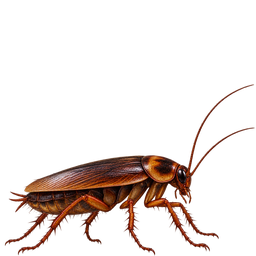
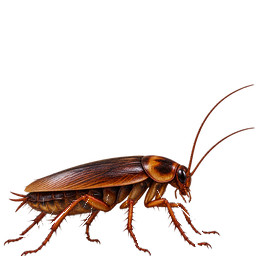
ROACH-13: add premium walk articulation candidate v1

diff --git a/scripts/roach-premium-walk-articulate.py b/scripts/roach-premium-walk-articulate.py
@@ -1,0 +1,60 @@
+from PIL import Image, ImageDraw, ImageChops
+from pathlib import Path
+import hashlib, json
+
+ROOT = Path(__file__).resolve().parents[1]
+SRC = ROOT / 'public/assets/player/premium-v1/frames/idle/roach_idle_01.png'
+OUT = ROOT / 'public/assets/player/premium-v1/frames/walk'
+BASE = Image.open(SRC).convert('RGBA')
+
+LEGS = [
+    ('rear_near', [(73,200),(88,199),(72,224),(45,253),(17,255),(12,247),(49,225),(69,207)], (80,207)),
+    ('mid_near', [(126,201),(138,200),(160,241),(158,256),(142,256),(128,214)], (133,207)),
+    ('front_near', [(175,201),(187,198),(222,239),(222,255),(201,255),(177,214)], (183,205)),
+    ('rear_far', [(43,198),(61,198),(49,216),(25,236),(4,237),(4,228),(28,220),(43,207)], (53,206)),
+    ('mid_far', [(94,194),(108,194),(103,211),(90,235),(78,239),(76,231),(90,215)], (101,204)),
+    ('front_far', [(157,190),(171,190),(177,205),(201,226),(202,236),(190,233),(168,211)], (166,201)),
+]
+SEQUENCE = [
+    [0,0,0,0,0,0],
+    [4,-4,4,-3,3,-3],
+    [7,-7,7,-5,5,-5],
+    [3,-3,3,-2,2,-2],
+    [-4,4,-4,3,-3,3],
+    [-7,7,-7,5,-5,5],
+]
+
+def rotate_masked(base_img, poly, angle, pivot):
+    if abs(angle) < 0.01:
+        return base_img
+    mask = Image.new('L', base_img.size, 0)
+    ImageDraw.Draw(mask).polygon(poly, fill=255)
+    mask = ImageChops.multiply(mask, base_img.getchannel('A'))
+    part = Image.new('RGBA', base_img.size, (0,0,0,0))
+    part.paste(base_img, (0,0), mask)
+    clean = base_img.copy()
+    clean.putalpha(ImageChops.subtract(clean.getchannel('A'), mask))
+    rotated = part.rotate(angle, resample=Image.Resampling.BICUBIC, center=pivot, expand=False)
+    return Image.alpha_composite(clean, rotated)
+def main():
+    OUT.mkdir(parents=True, exist_ok=True)
+    rows = []
+    leg_names = [name for name, _, _ in LEGS]
+    for idx, angles in enumerate(SEQUENCE, 1):
+        frame = BASE.copy()
+        for (_, poly, pivot), angle in zip(LEGS, angles):
+            frame = rotate_masked(frame, poly, angle, pivot)
+        fp = OUT / f'roach_walk_{idx:02d}.png'
+        frame.save(fp, optimize=True)
+        data = fp.read_bytes()
+        rows.append({
+            'index': idx,
+            'path': fp.relative_to(ROOT).as_posix(),
+            'sha256': hashlib.sha256(data).hexdigest(),
+            'alphaBounds': list(frame.getchannel('A').getbbox()),
+            'anglesDeg': dict(zip(leg_names, angles)),
+        })
+    print(json.dumps(rows, indent=2))
+
+if __name__ == '__main__':
+    main()

diff --git a/scripts/roach-premium-walk-articulation-qa.py b/scripts/roach-premium-walk-articulation-qa.py
@@ -1,0 +1,36 @@
+from pathlib import Path
+from PIL import Image, ImageChops
+import hashlib, json, sys
+
+ROOT=Path(__file__).resolve().parents[1]
+manifest=json.loads((ROOT/'art/source/player/premium-v1/frames/walk/walk_family.manifest.json').read_text(encoding='utf-8'))
+base=Image.open(ROOT/'public/assets/player/premium-v1/frames/idle/roach_idle_01.png').convert('RGBA')
+lock_box=(0,0,256,189)
+expected_status='ARTICULATION_CANDIDATE_V1'
+
+if manifest.get('status')!=expected_status:
+    raise SystemExit(f'walk status drift: {manifest.get("status")}')
+if manifest.get('runtimeReady') is not False:
+    raise SystemExit('walk promoted too early')
+if manifest.get('upperBodyLockRegion') != [0,0,256,189]:
+    raise SystemExit('upper body lock region drift')
+if len(manifest.get('frames',[])) != 6:
+    raise SystemExit('walk frame count drift')
+
+for frame in manifest['frames']:
+    p=ROOT/frame['path']
+    im=Image.open(p).convert('RGBA')
+    sha=hashlib.sha256(p.read_bytes()).hexdigest()
+    if sha != frame['sha256']:
+        raise SystemExit(f'hash drift frame {frame["index"]}')
+    if im.size != (256,256):
+        raise SystemExit(f'size drift frame {frame["index"]}')
+    diff=ImageChops.difference(base.crop(lock_box),im.crop(lock_box))
+    if diff.getbbox() is not None:
+        raise SystemExit(f'upper body identity drift frame {frame["index"]}')
+    a=im.getchannel('A')
+    if a.getbbox() != (1,84,255,256):
+        raise SystemExit(f'alpha bounds drift frame {frame["index"]}: {a.getbbox()}')
+
+print('PASS ROACH-12 WALK articulation QA: upper identity locked, six deterministic leg pivots, 6 frames')
+
